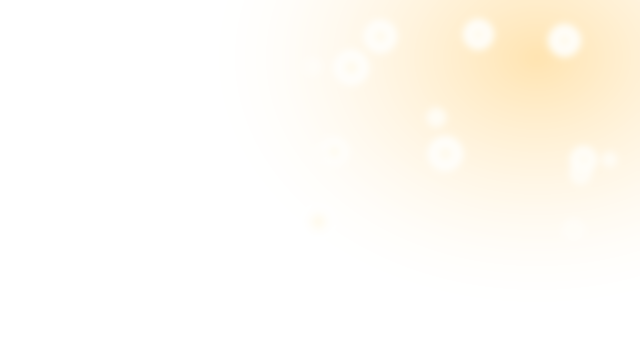
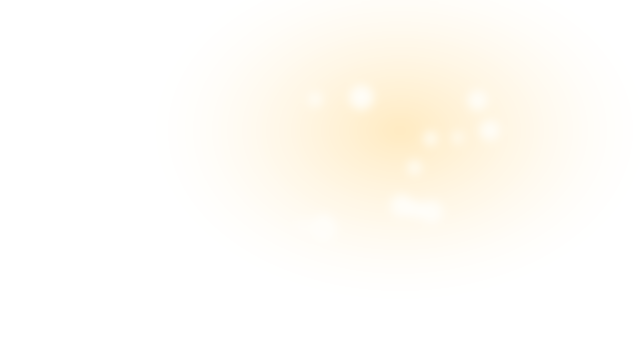
1.0.100: 国庆皮海报构图+半透；霓虹流光底也改半透

diff --git a/fx.py b/fx.py
@@ -103,23 +103,164 @@ def paint_canton(
         layer.alpha_composite(streak, (ox, oy))
 
 
-def paint_flutter(layer: Image.Image, phase: float, *, slow: bool = False) -> None:
-    """整块红绸的布面明暗起伏（只调明暗不位移，无缝），让底和星像同一块飘动的旗面。"""
+_TIANANMEN_CACHE: dict[tuple[int, bool], Image.Image] = {}
+
+
+def _tiananmen(height: int, light: bool) -> Image.Image:
+    """天安门剪影（金色，自上而下渐淡）：城台五门洞 + 重檐歇山顶。按国庆海报常见画法简化。"""
+    key = (int(height), bool(light))
+    got = _TIANANMEN_CACHE.get(key)
+    if got is not None:
+        return got
+    ss = 3
+    H = max(12, int(height)) * ss
+    W = int(H * 1.55)
+    mask = Image.new("L", (W + 2 * ss, H + 2 * ss), 0)
+    d = ImageDraw.Draw(mask)
+    ox, oy = ss, ss
+    cx = ox + W / 2
+
+    def rect(x0, y0, x1, y1, v=255):
+        d.rectangle((ox + x0 * W, oy + y0 * H, ox + x1 * W, oy + y1 * H), fill=v)
+
+    def poly(pts, v=255):
+        d.polygon([(cx + px * W, oy + py * H) for px, py in pts], fill=v)
+
+    # 城台 + 女儿墙
+    rect(0.0, 0.60, 1.0, 1.0)
+    rect(-0.01, 0.565, 1.01, 0.60)
+    # 五个门洞：中间最大
+    for k, (pos, aw, ah) in enumerate(((0.0, 0.11, 0.30), (-0.2, 0.085, 0.24), (0.2, 0.085, 0.24), (-0.37, 0.075, 0.20), (0.37, 0.075, 0.20))):
+        x0, x1 = cx + (pos - aw / 2) * W, cx + (pos + aw / 2) * W
+        y1 = oy + H
+        y0 = y1 - ah * H
+        d.rectangle((x0, y0 + aw * W / 2, x1, y1), fill=0)
+        d.ellipse((x0, y0, x1, y0 + aw * W), fill=0)
+    # 一层殿身 + 下层檐（翼角上翘）
+    poly([(-0.33, 0.40), (0.33, 0.40), (0.33, 0.565), (-0.33, 0.565)])
+    poly([(-0.47, 0.335), (-0.37, 0.395), (0.37, 0.395), (0.47, 0.335), (0.30, 0.295), (-0.30, 0.295)])
+    # 二层殿身 + 上层檐 + 正脊
+    poly([(-0.25, 0.20), (0.25, 0.20), (0.25, 0.295), (-0.25, 0.295)])
+    poly([(-0.37, 0.19), (-0.28, 0.235), (0.28, 0.235), (0.37, 0.19), (0.19, 0.11), (-0.19, 0.11)])
+    poly([(-0.20, 0.085), (0.20, 0.085), (0.19, 0.115), (-0.19, 0.115)])
+    poly([(-0.205, 0.06), (-0.175, 0.06), (-0.175, 0.10), (-0.205, 0.10)])
+    poly([(0.175, 0.06), (0.205, 0.06), (0.205, 0.10), (0.175, 0.10)])
+    # 檩条：檐下两道细横线，增加层次
+    rect(-0.31, 0.415, 0.31, 0.43, 0)
+    rect(-0.23, 0.245, 0.23, 0.258, 0)
+
+    small = (mask.width // ss, mask.height // ss)
+    mask = mask.resize(small, Image.Resampling.LANCZOS)
+    # 自上而下：金亮 → 橙金，alpha 也渐弱，像被底下的光托起
+    top_c = (255, 222, 140) if not light else (214, 96, 60)
+    bot_c = (255, 168, 80) if not light else (190, 60, 40)
+    grad = Image.linear_gradient("L").resize(small)
+    col = Image.composite(Image.new("RGBA", small, (*bot_c, 255)), Image.new("RGBA", small, (*top_c, 255)), grad)
+    fade = grad.point(lambda v: int(190 - 90 * v / 255))
+    col.putalpha(ImageChops.multiply(mask, fade))
+    if len(_TIANANMEN_CACHE) > 6:
+        _TIANANMEN_CACHE.clear()
+    _TIANANMEN_CACHE[key] = col
+    return col
+
+
+def _hash01(n: int, salt: int) -> float:
+    v = (n * 1103515245 + salt * 12345 + 2531011) & 0x7FFFFFFF
+    return ((v >> 8) & 0xFFFF) / 65535.0
+
+
+def paint_national(layer: Image.Image, phase: float, *, stage: str, light: bool = False) -> None:
+    """国庆海报式构图：金色光芒 + 底部飘带 + 右下天安门剪影 + 烟花 + 右上五星。"""
     bw, bh = layer.size
-    speed = 0.9 if slow else 1.7
-    light: list[tuple[int, int, int, int]] = []
-    dark: list[tuple[int, int, int, int]] = []
-    inv = 1.0 / max(1.0, bw)
-    for sx in range(bw):
-        k = sx * inv
-        s = math.sin(k * 5.6 - phase * speed) * 0.7 + math.sin(k * 11.3 - phase * speed * 1.6 + 1.1) * 0.3
-        light.append((255, 240, 220, int(max(0.0, s) * 34)))
-        dark.append((60, 0, 6, int(max(0.0, -s) * 46)))
-    # 一列亮、一列暗的 1px 高条带，拉伸到整张后叠上去：比 split/merge 乘法便宜得多
-    for data in (light, dark):
-        strip = Image.new("RGBA", (bw, 1))
-        strip.putdata(data)
-        layer.alpha_composite(strip.resize((bw, bh), Image.Resampling.NEAREST))
+    if bw < 40 or bh < 20:
+        return
+    slow = stage in ("idle", "done")
+    fxl = Image.new("RGBA", (bw, bh), (0, 0, 0, 0))
+    d = ImageDraw.Draw(fxl)
+
+    # 光芒：从右下天安门后方向左上放射，整体缓慢摆动；画完再模糊，像海报光晕
+    ta_h = int(round(bh * 0.42))
+    ta = _tiananmen(ta_h, light)
+    # 再压一层透明度，融进红绸，避免剪影「贴上去」
+    ta = ta.copy()
+    ta.putalpha(ta.getchannel("A").point(lambda v: int(v * 0.72)))
+    ta_x = bw - ta.width - int(round(bw * 0.02))
+    ta_y = bh - ta.height + 3
+    acx, acy = ta_x + ta.width * 0.55, bh + bh * 0.02
+    wob = math.sin(phase * (0.25 if slow else 0.45)) * 4.0
+    ray_len = bw * 1.7
+    ray_c = (255, 214, 130) if not light else (255, 150, 90)
+    rays = Image.new("RGBA", (bw, bh), (0, 0, 0, 0))
+    rd = ImageDraw.Draw(rays)
+    for i in range(9):
+        ang = math.radians(-165 + i * 14.5 + wob)
+        hw = math.radians(1.0 if i % 2 else 0.65)
+        a = 28 if i % 2 else 16
+        rd.polygon(
+            [
+                (acx, acy),
+                (acx + math.cos(ang - hw) * ray_len, acy + math.sin(ang - hw) * ray_len),
+                (acx + math.cos(ang + hw) * ray_len, acy + math.sin(ang + hw) * ray_len),
+            ],
+            fill=(*ray_c, a),
+        )
+    fxl.alpha_composite(rays.filter(ImageFilter.GaussianBlur(radius=max(1.5, bh / 55))))
+
+    # 飘带：两条丝带沿中下流动，避开大数字区
+    def ribbon(y_base: float, amp: float, thick: float, freq: float, sp: float, fill, edge) -> None:
+        step = max(4, bw // 40)
+        xs = list(range(-step, bw + step * 2, step))
+        tops = []
+        for x in xs:
+            y = y_base + math.sin(x / bw * math.pi * 2 * freq + phase * sp) * amp
+            tops.append((x, y))
+        bots = [(x, y + thick) for x, y in reversed(tops)]
+        d.polygon(tops + bots, fill=fill)
+        d.line(tops, fill=edge, width=1)
+
+    rsp = 0.35 if slow else 0.7
+    ribbon(bh * 0.82, bh * 0.04, bh * 0.09, 1.05, rsp * 0.8, (150, 14, 26, 100), (200, 70, 70, 80))
+    ribbon(bh * 0.88, bh * 0.045, bh * 0.07, 1.3, rsp, (232, 56, 48, 110), (255, 214, 130, 160))
+
+    # 天安门剪影（右下，略模糊边缘）
+    fxl.alpha_composite(ta.filter(ImageFilter.GaussianBlur(radius=0.6)), (ta_x, ta_y))
+
+    # 烟花：每 3.2s 在右上偏中绽放一朵，金红交替
+    cyc = 3.2 if not slow else 6.0
+    n = int(phase / cyc)
+    p = (phase % cyc) / 1.5
+    if p < 1.0:
+        fxx = bw * (0.55 + 0.35 * _hash01(n, 1))
+        fyy = bh * (0.10 + 0.32 * _hash01(n, 2))
+        rad = (p ** 0.55) * bh * 0.22
+        fade = (1.0 - p) ** 1.3
+        gold = _hash01(n, 3) < 0.6
+        c = (255, 224, 130) if gold else (255, 128, 90)
+        spokes = 12
+        for k in range(spokes):
+            ang = k / spokes * math.pi * 2 + n * 0.37
+            for rr, sz, aa in ((1.0, 1.4, 220), (0.78, 1.0, 140), (0.56, 0.8, 85)):
+                x = fxx + math.cos(ang) * rad * rr
+                y = fyy + math.sin(ang) * rad * rr + (p * p) * bh * 0.05 * rr
+                a = int(aa * fade)
+                if a > 4:
+                    d.ellipse((x - sz, y - sz, x + sz, y + sz), fill=(*c, a))
+        if p < 0.18:
+            fa = int(190 * (1 - p / 0.18))
+            r0 = 2.5 + p * 12
+            d.ellipse((fxx - r0, fyy - r0, fxx + r0, fyy + r0), fill=(255, 250, 220, fa))
+
+    layer.alpha_composite(fxl)
+
+    # 右上五星：略缩小，明确落在右上角，不压天安门
+    unit = max(2.2, bh * 0.042)
+    paint_canton(
+        layer, phase,
+        unit=unit,
+        ox=int(round(bw - 13 * unit - bw * 0.03)),
+        oy=max(1, int(round(bh * 0.05))),
+        slow=slow,
+    )
 
 
 # ---------------------------------------------------------------- 霓虹流光 HUD

diff --git a/ornaments.py b/ornaments.py
@@ -279,9 +279,10 @@ def paste_skin(
         a0 = 0.94 if not light else 0.84
         a1 = 0.48 if not light else 0.36
     elif kind == "nationalday":
-        a0 = 0.96 if not light else 0.86
+        # 红绸半透：对齐玻璃/极光那档，桌面能透出来
+        a0 = 0.58 if not light else 0.50
         # 光斑层跟着周期「炸开」一下再回落
-        a1 = (0.46 if not light else 0.34) * (1.0 + 0.55 * _burst(phase))
+        a1 = (0.42 if not light else 0.30) * (1.0 + 0.55 * _burst(phase))
     else:
         a0 = 0.82 if not light else 0.62
         a1 = 0.55 if not light else 0.38
@@ -323,17 +324,9 @@ def paste_skin(
         _place(glow, name_b or "glow", a1, speed=base_speed * 0.78, twist=1.7)
 
     if kind == "nationalday":
-        # 整张卡就是旗面：星组直接绣在右上角红绸上，再整体过一遍布面明暗起伏
-        unit = max(2.5, bh * 0.05)
-        fx.paint_canton(
-            layer, phase,
-            unit=unit,
-            ox=int(round(bw - 13 * unit - bw * 0.04)),
-            oy=int(round(bh * 0.07 - unit)),
-            slow=freeze,
-        )
-        fx.paint_flutter(layer, phase, slow=freeze)
-        _paint_embers(layer, phase, light=light, stage=stage, count=8)
+        # 海报式构图：光芒 / 飘带 / 天安门剪影 / 烟花 / 五星，全程序化画在红绸纹理上
+        fx.paint_national(layer, phase, stage=stage, light=light)
+        _paint_embers(layer, phase, light=light, stage=stage, count=6)
         # 红底不叠蓝灰情绪色，只留环境光
         mood = _mix_env((255, 176, 96, 18 if light else 22), env_rgb)
     else:

diff --git a/themes.py b/themes.py
@@ -479,9 +479,10 @@ def paint_card(
             elif kind == "midautumn":
                 base = (236, 232, 255, 42) if light_card else (8, 10, 32, 30)
             elif kind == "nationalday":
-                base = (255, 232, 224, 46) if light_card else (52, 8, 12, 40)
+                base = (255, 232, 224, 36) if light_card else (40, 6, 10, 28)
             elif kind == "neonflow":
-                base = (6, 8, 14, 238)
+                # 对齐玻璃档透明度，不再实黑底
+                base = (6, 8, 14, 150)
             else:  # glass
                 base = (252, 253, 255, 36) if light_card else (14, 16, 22, 28)
             d.rounded_rectangle(box, radius=r, fill=base)

diff --git a/tests/test_core.py b/tests/test_core.py
@@ -361,9 +361,8 @@ class FxTests(unittest.TestCase):
 
         layer = Image.new("RGBA", (248, 92), (160, 20, 24, 255))
         for ph in (0.0, 0.7, 3.3):
-            fx.paint_canton(layer, ph, unit=4.6, ox=178, oy=2)
-            fx.paint_flutter(layer, ph)
             for st in ("run", "warn", "done", "idle"):
+                fx.paint_national(layer, ph, stage=st, light=(st == "idle"))
                 fx.paint_neonflow(layer, ph, stage=st, radius=14)
         self.assertEqual(layer.size, (248, 92))
         self.assertTrue(ornaments.has_skin("neonflow"))

diff --git a/scripts/gitcode_release.py b/scripts/gitcode_release.py
@@ -93,7 +93,7 @@ def upload_asset(tok: str, tag: str, exe: Path) -> None:
         ) from e
 
 
-RELEASE_NOTE = "- 「外观」改为经典（两字皮）/ 特效（四字皮）/ 节日 三个子菜单，当前皮所在组名带勾"
+RELEASE_NOTE = "- 国庆皮按海报构图重做（天安门剪影/金光/飘带/烟花/五星），红绸半透对齐经典皮；霓虹流光底也改半透"
 
 
 def sha256_of(path: Path) -> str:

diff --git a/version.py b/version.py
@@ -1,5 +1,5 @@
 """应用版本号：每次发 GitCode Release 时同步改这里并重新打包。"""
 
 APP_NAME = "WorkTimer"
-APP_VERSION = "1.0.99"
+APP_VERSION = "1.0.100"
 ASSET_NAME = "WorkTimer.exe"

diff --git a/docs/更新说明.md b/docs/更新说明.md
@@ -1,5 +1,9 @@
 # GitCode 自动更新
 
+## 1.0.100
+
+国庆皮按网上常见「红金海报」构图重做：右下天安门金色剪影、身后放射金光、底部红金飘带、右上五星、间歇烟花绽放；红绸纹理本身带软透明，叠层透明度对齐玻璃/极光档，桌面能透出来。霓虹流光的近黑底也从近实色压到半透。
+
 ## 1.0.99
 
 「外观」不再平铺，收成三个子菜单：经典（两字名的皮：淡影 / 玻璃 / 霜白 / 霓虹 / 终端 / 极光 / 墨金 / 暖光）、特效（四字名的皮：霓虹流光）、节日（中秋 / 国庆，在季的标「· 限定」）。当前用的皮除了自身打勾，所在组名也打勾，展开前就知道在哪。分组按名字长度自动判断，在线加皮不用改代码。
